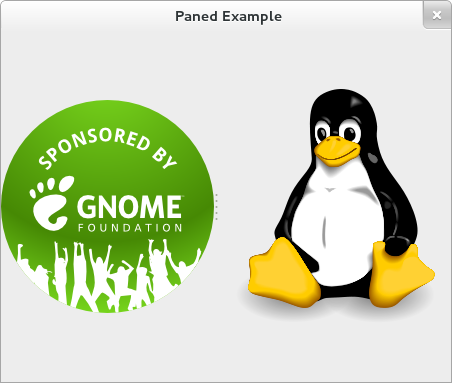
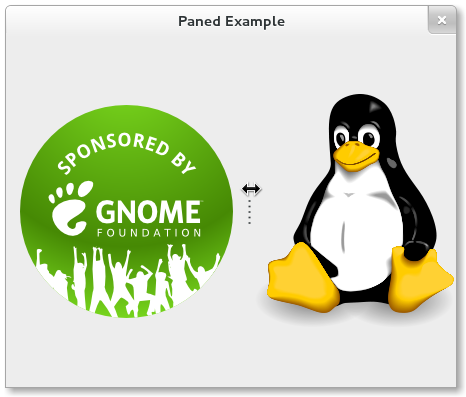
demo: Added Paned (C) example and updated image.

Changed region(s): [[0.0, 0.0, 1.0, 1.0]]

diff --git a/platform-demos/C/samples/paned.c b/platform-demos/C/samples/paned.c
@@ -1,0 +1,39 @@
+#include <gtk/gtk.h>
+
+static void
+activate (GtkApplication *app,
+          gpointer        user_data)
+{
+  GtkWidget *paned;
+  GtkWidget *window;
+  GtkWidget *image1;
+  GtkWidget *image2;
+
+  window = gtk_application_window_new (app);
+  gtk_window_set_title (GTK_WINDOW (window), "Paned Example");
+  gtk_window_set_default_size (GTK_WINDOW (window), 450, 350);
+
+  paned = gtk_paned_new (GTK_ORIENTATION_HORIZONTAL);
+  image1 = gtk_image_new_from_file ("gnome-image.png");
+  image2 = gtk_image_new_from_file ("tux.png");
+
+  gtk_paned_add1 (GTK_PANED (paned), image1);
+  gtk_paned_add2 (GTK_PANED (paned), image2);
+
+  gtk_container_add (GTK_CONTAINER (window), paned);
+
+  gtk_widget_show_all (window);
+}
+
+int
+main (int argc, char **argv)
+{
+  GtkApplication *app;
+  int status;
+
+  app = gtk_application_new ("org.gtk.example", G_APPLICATION_FLAGS_NONE);
+  g_signal_connect (app, "activate", G_CALLBACK (activate), NULL);
+  status = g_application_run (G_APPLICATION (app), argc, argv);
+  g_object_unref (app);
+  return status;
+}
